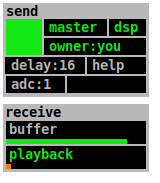
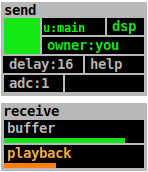
update evil docs to reflect clock issues (auto sync of untik)

diff --git a/content/instruments/evil/index.md b/content/instruments/evil/index.md
@@ -12,14 +12,13 @@ is musically aligned to the other instruments.
 
 ### Usage
 
-
-For each loaded instance of  **evil**, there can only be one client acting as
-sender, while the transmitted stream is received by all clients, the
+For each loaded instance of  **evil**, there can only be one peer acting as
+sender, while the transmitted stream is received by all peers, the
 sender included. For becoming a sender, three conditions need to be met:
 
-- [master](../master) (the master clock) needs be running
+- the selected clock needs to be running
 - DSP needs to be turned on
-- ownership needs to be assigned to the sending client
+- ownership needs to be assigned to the sending peer
 
 You can claim ownership by clicking *owner* in the gui. Once those conditions
 are met, the *transmit* button (top left square) turns from black to dark green
@@ -31,25 +30,42 @@ streaming is stopped by clicking the *trasmit* button again.
 
 ### Some notes
 
-
 #### Bandwidth
 
 **evil** transmits one channel as 16bit PCM at Pd's current sampling rate. This
-amounts to roughly 100 kB/s at 44.1 kHz each way.
+amounts to roughly 100 kB/s at 44.1 kHz each way. Since **evil** doesn't do
+resampling, it's of utmost importance that all peers use the same sample rate.
+**netpd**'s default sample rate is 44.1 kHz.
 
 #### Congestion
 
-**evil** makes sure that all clients receive the stream in time. If one client
+**evil** makes sure that all peers receive the stream in time. If one peer
 experiences a buffer underrun, it notifies the sender instance, which then
-immediately stops transmitting. If transmission keeps stopping often soon
-after start, this could mean that at least one client doesn't have enough
-bandwidth for evil to work properly. It could also mean that one client's
-clock is ahead in time. Make sure that all participating client's [master](../master)
-is in sync.
+immediately stops transmitting.
+
+#### Clock sync
+
+When the sender clicks the transmit button, the current time tag (received from the
+selected clock) is stored and the playback time is calculated from it (assuming
+all values are given in tick units):
+
+  current time + delay - audio latency = playback time
+
+The playback time is then sent to all receiving peers.
+This ensures that the playback of recorded audio is temporally correctly aligned to
+the generated sound. This also means, that the clocks of all peers need to be (more
+or less) in sync. If a receiving peer's clock is a few ticks ahead, their receive
+buffer is less full when the clock hits the playback time, thus making buffer underruns
+more likely. As stated above, a buffer underrun on any receiving peer causes the
+whole transmission to stop. Thus, it is recommended to make sure before sending that
+clocks are in sync. [[../untik]] has automatic syncing enabled per default. However,
+it should not perform any synchronization during **evil** transmissions. It is
+recommended to turn 'auto' in the 'sync' section off.
+
 
 #### Correct timing
 
-**evil** tries to start playback exactly aligned to the generated instruments,
+**evil** tries to start playback exactly aligned to the sound generating instruments,
 offset by the delay in the *delay* parameter. This only works correctly, if
 the effective round-trip audio latency is configured correctly in
 [netpd-preferences](/docs/netpd-preferences).
